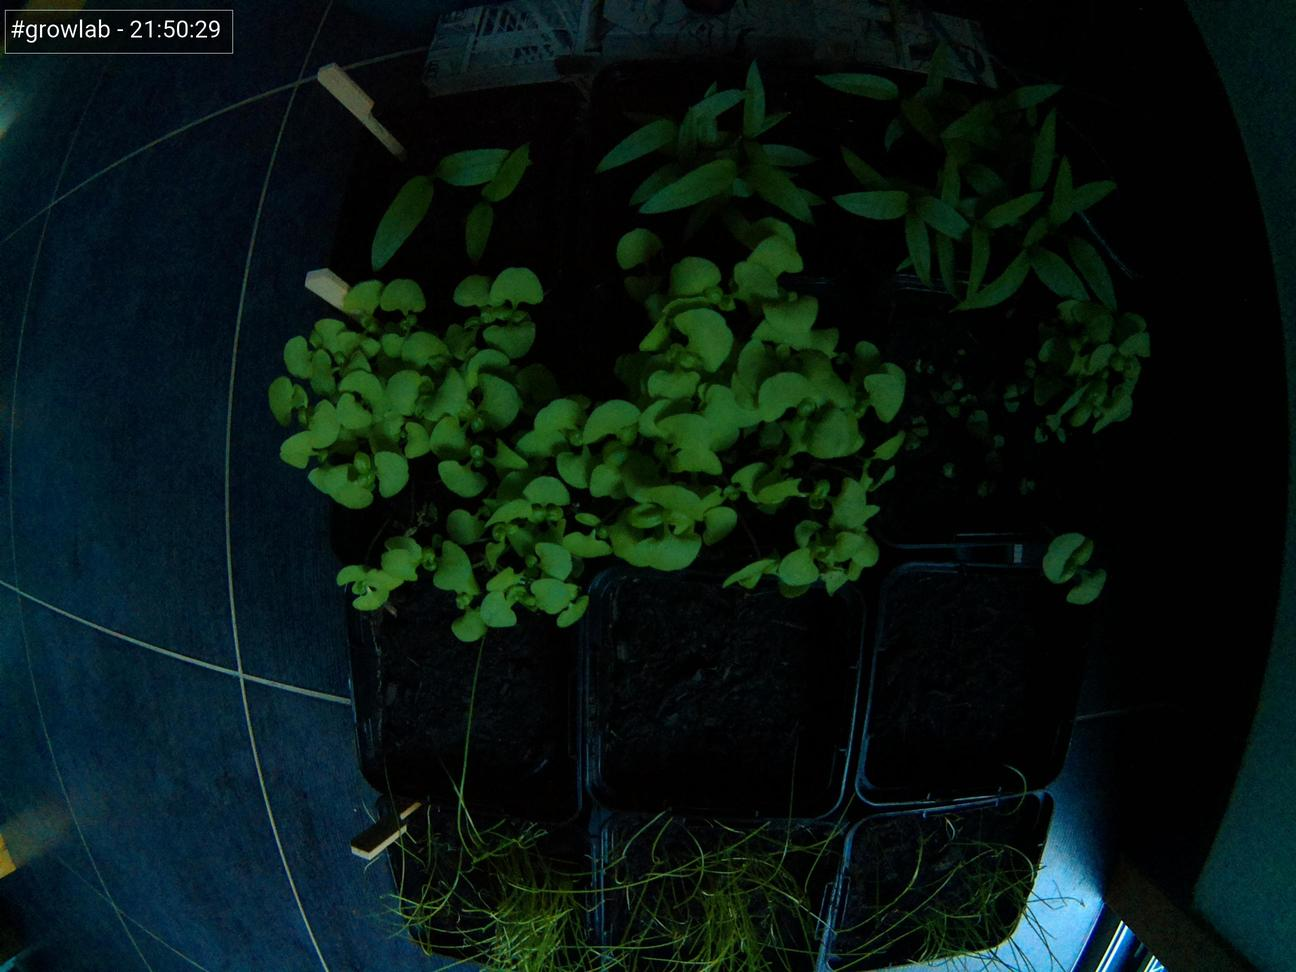
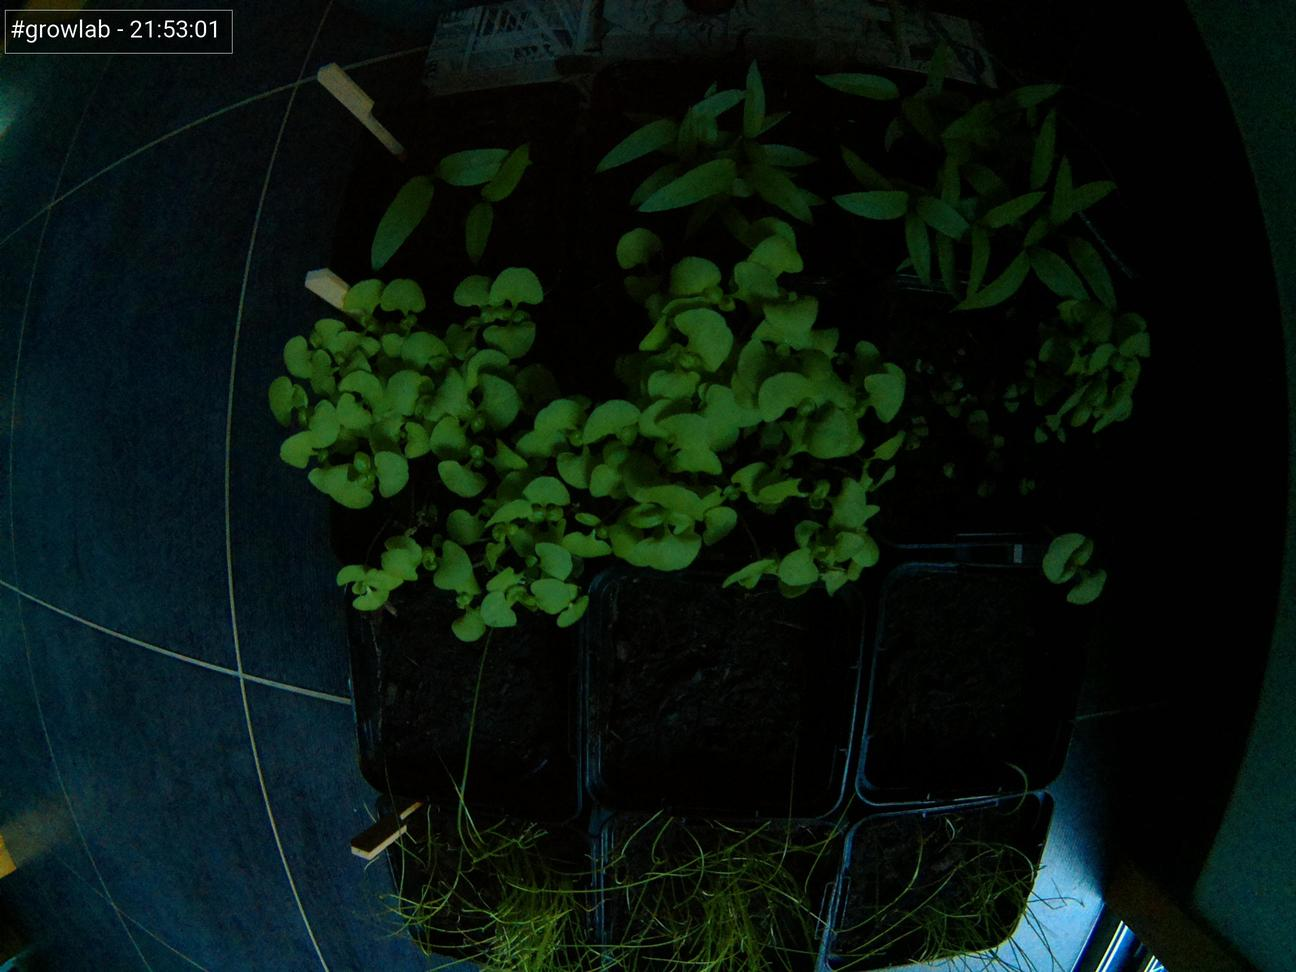
Update images at Thu 10 Jun 21:53:10 CEST 2021

diff --git a/index.html b/index.html
@@ -47,7 +47,7 @@
                         <tbody>
                             <tr>
                                 <td>Time</td>
-                                <td>21:50:29</td>
+                                <td>21:53:01</td>
                             </tr>
                             <tr>
                                 <td>Temperature</td>
@@ -67,7 +67,7 @@
 
                 <h5>Latest image</h5>
                 <div style="width: 85%;">
-                            <img class="figure-img img-fluid rounded" src="./preview.jpg?uid=1623354637.912385">
+                            <img class="figure-img img-fluid rounded" src="./preview.jpg?uid=1623354790.0190685">
                 </div>
             </div>
         </div>
